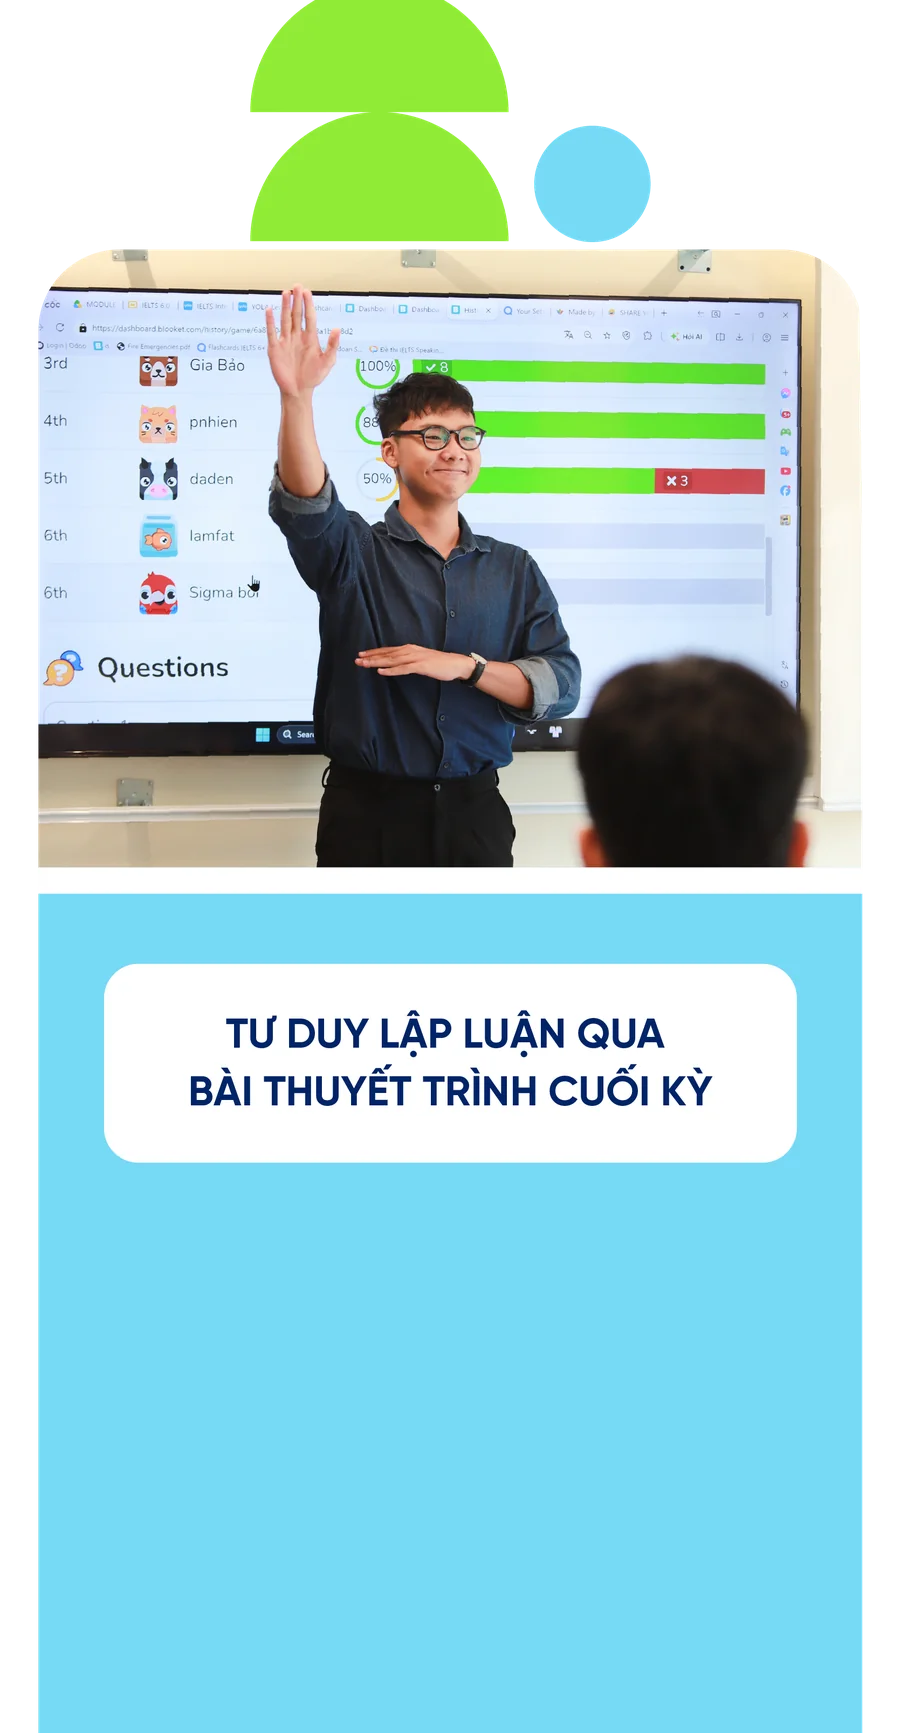
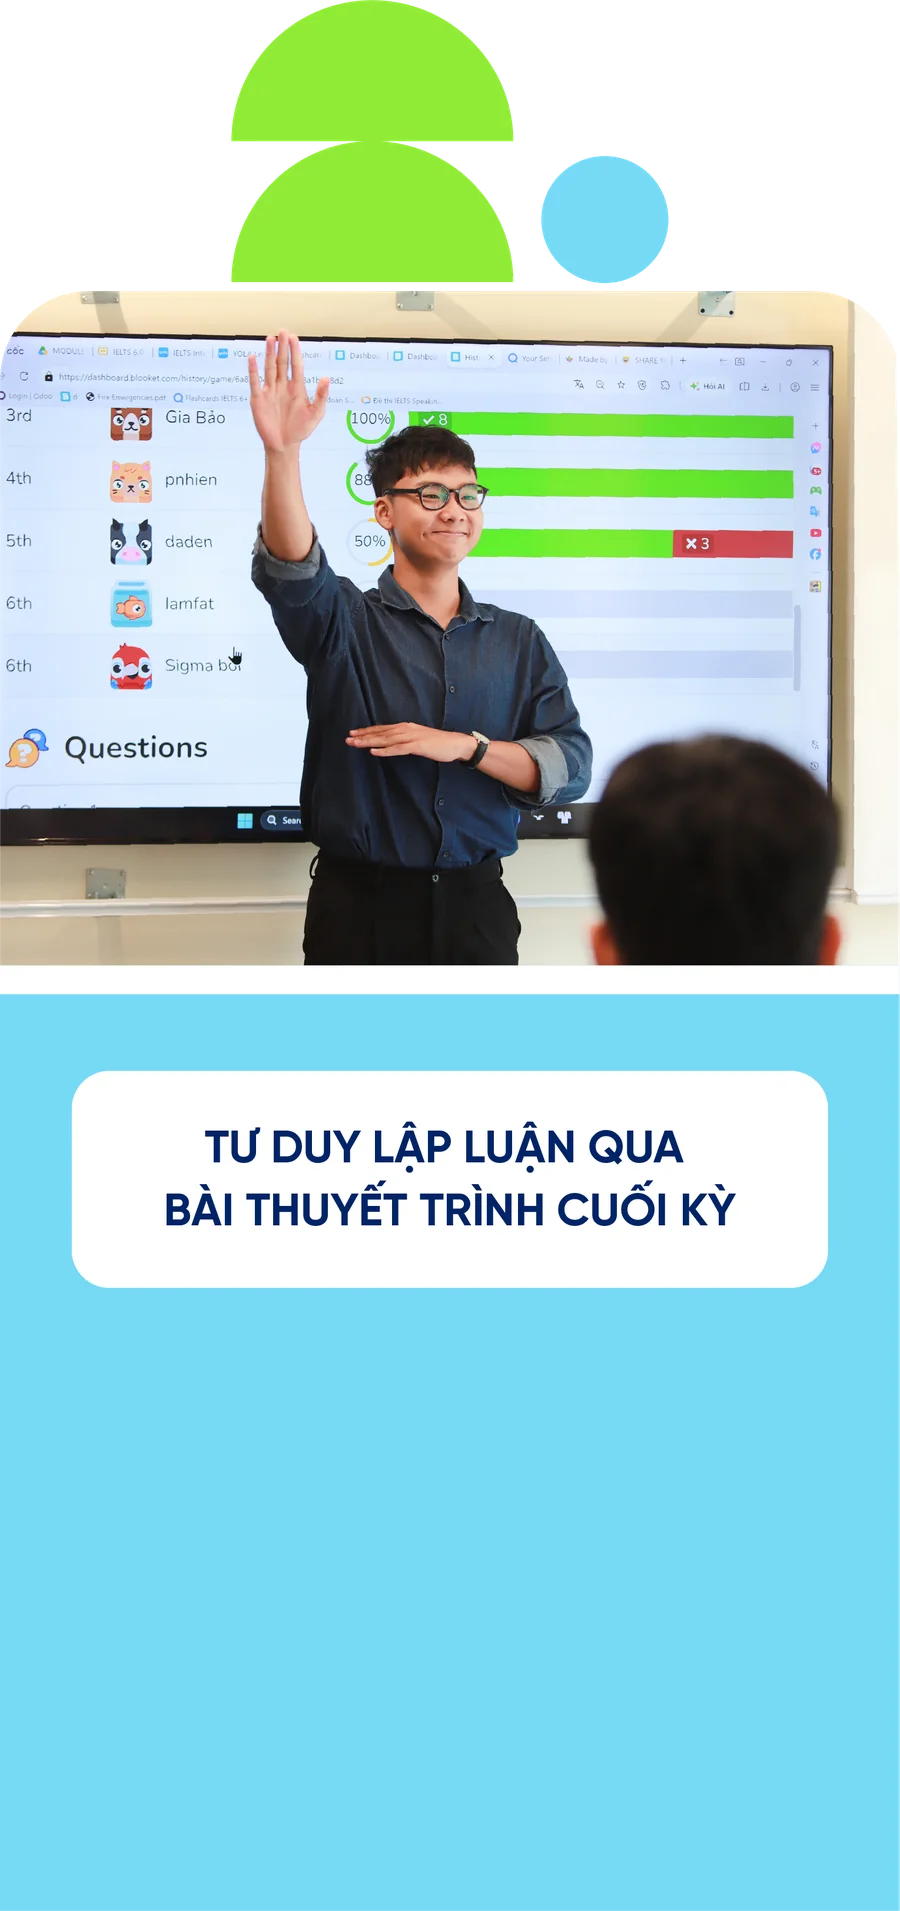
LP giới thiệu YOLA: 3 card section 2 mobile dùng hình design gửi; lề card đầu/cuối 16px
Claude-Session: https://claude.ai/code/session_01SFdUKDWz5C1xDm6uD4ha55

Changed region(s): [[0.0, 0.0312, 1.0, 1.0], [0.4667, 0.0, 0.56, 0.0312], [0.3111, 0.0, 0.3733, 0.0312]]

diff --git a/gioi-thieu-yola/index.html b/gioi-thieu-yola/index.html
@@ -341,7 +341,7 @@ footer li a:hover{color:var(--sky)}
 .only-m{display:none}
 .cslide{position:relative;padding:0}
 @media(max-width:820px){.cslide{margin:0 -24px}}
-.cslide-track{grid-auto-columns:88vw;gap:8px;padding:6px 16px 12px;scroll-padding-left:16px;align-items:end}
+.cslide-track{grid-auto-columns:88vw;gap:8px;padding:6px 40px 12px;scroll-padding-left:40px;align-items:end}
 .cslide-card{border-radius:0;margin:0;width:100%}
 .cslide-card .tb{font-size:3.6cqw;line-height:1.5}
 .cslide-card .tb.navy{color:#0B2467}
@@ -397,7 +397,7 @@ footer li a:hover{color:var(--sky)}
   <div class="only-m">
     <div class="title-m"><img class="l-s2a" src="../assets/img_rb_s2_title_l1.webp" alt="Vững tư duy học thuật"><img class="l-s2b" src="../assets/img_rb_s2_title_l2.webp" alt="cho các kỳ thi"></div>
     <div class="cslide" id="s2slide" data-autoplay="4200">
-      <div class="cslide-track car-scroll" id="s2slide-track"><div class="comp cslide-card"><img src="../assets/img_rb_s2_card1_m.webp" alt="" loading="lazy" width="900" height="1733"><div class="tb" style="left:10.40%;top:70.25%;width:79.20%;height:27.85%"><p>Con phát triển 4 kỹ năng qua những mảng kiến thức thật: thần thoại Hy Lạp, các nền văn minh cổ, văn hóa thế giới. Con học tiếng Anh bằng cách khám phá thế giới, không chỉ ghi nhớ từ vựng rời&nbsp;rạc.</p></div></div><div class="comp cslide-card"><img src="../assets/img_rb_s2_card2_m.webp" alt="" loading="lazy" width="900" height="1733"><div class="tb navy" style="left:10.20%;top:69.62%;width:79.60%;height:29.75%"><p>Cuối mỗi kỳ, con tự xây một bài thuyết trình: chọn chủ đề, tìm ý, lập luận và bảo vệ quan điểm trước lớp — từ chuyện gần gũi như tình bạn, ẩm thực đến những câu hỏi lớn về thế&nbsp;giới.</p><p>Giáo viên chấm theo chuẩn học thuật: 4 kỹ năng, cách trình bày và tư duy logic. Kiến thức văn hóa xã hội trở thành chính kiến của&nbsp;con.</p></div></div><div class="comp cslide-card"><img src="../assets/img_rb_s2_card3_m.webp" alt="" loading="lazy" width="900" height="1733"><div class="tb" style="left:10.40%;top:70.25%;width:79.20%;height:27.85%"><p>Dự án nhóm, trò chơi, vẽ, đóng kịch, xem tư liệu gốc — mỗi buổi học là một trải nghiệm khác&nbsp;nhau.</p><p>Lớp học đủ vui để con mong đến ngày học, và đủ không gian để mỗi học sinh đều được chia sẻ ý&nbsp;kiến.</p></div></div></div>
+      <div class="cslide-track car-scroll" id="s2slide-track"><div class="comp cslide-card"><img src="../assets/img_rb_s2_card1_m.webp" alt="" loading="lazy" width="900" height="1907"><div class="tb" style="left:5.99%;top:71.77%;width:87.88%;height:25.16%"><p>Con phát triển 4 kỹ năng qua những mảng kiến thức thật: thần thoại Hy Lạp, các nền văn minh cổ, văn hóa thế giới. Con học tiếng Anh bằng cách khám phá thế giới, không chỉ ghi nhớ từ vựng rời&nbsp;rạc.</p></div></div><div class="comp cslide-card"><img src="../assets/img_rb_s2_card2_m.webp" alt="" loading="lazy" width="900" height="1911"><div class="tb navy" style="left:5.99%;top:71.85%;width:87.88%;height:25.08%"><p>Cuối mỗi kỳ, con tự xây một bài thuyết trình: chọn chủ đề, tìm ý, lập luận và bảo vệ quan điểm trước lớp — từ chuyện gần gũi như tình bạn, ẩm thực đến những câu hỏi lớn về thế&nbsp;giới.</p><p>Giáo viên chấm theo chuẩn học thuật: 4 kỹ năng, cách trình bày và tư duy logic. Kiến thức văn hóa xã hội trở thành chính kiến của&nbsp;con.</p></div></div><div class="comp cslide-card"><img src="../assets/img_rb_s2_card3_m.webp" alt="" loading="lazy" width="900" height="1911"><div class="tb" style="left:5.99%;top:71.85%;width:87.88%;height:25.08%"><p>Dự án nhóm, trò chơi, vẽ, đóng kịch, xem tư liệu gốc — mỗi buổi học là một trải nghiệm khác&nbsp;nhau.</p><p>Lớp học đủ vui để con mong đến ngày học, và đủ không gian để mỗi học sinh đều được chia sẻ ý&nbsp;kiến.</p></div></div></div>
       <div class="cslide-dots" aria-hidden="true"></div>
     </div>
   </div>
